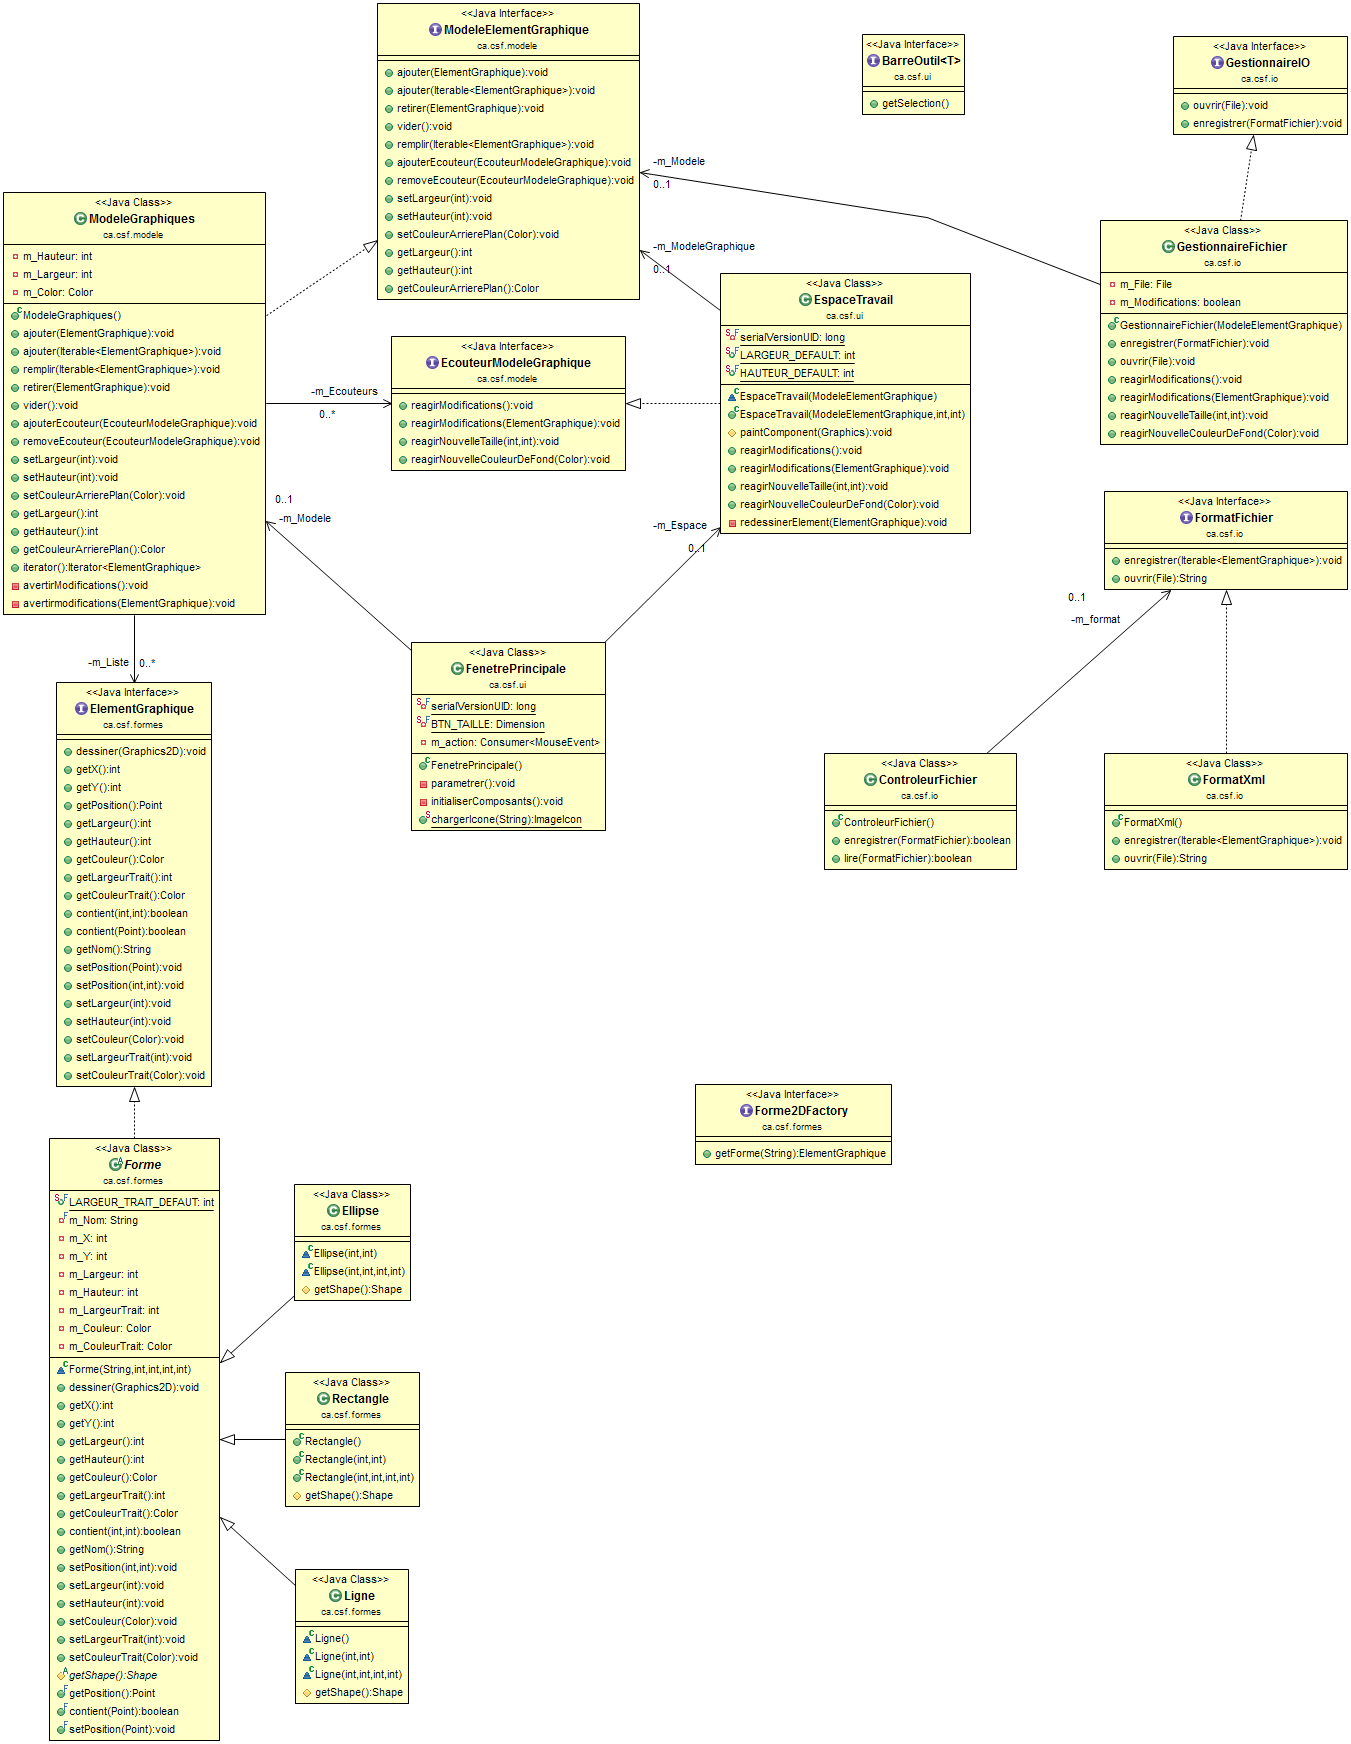
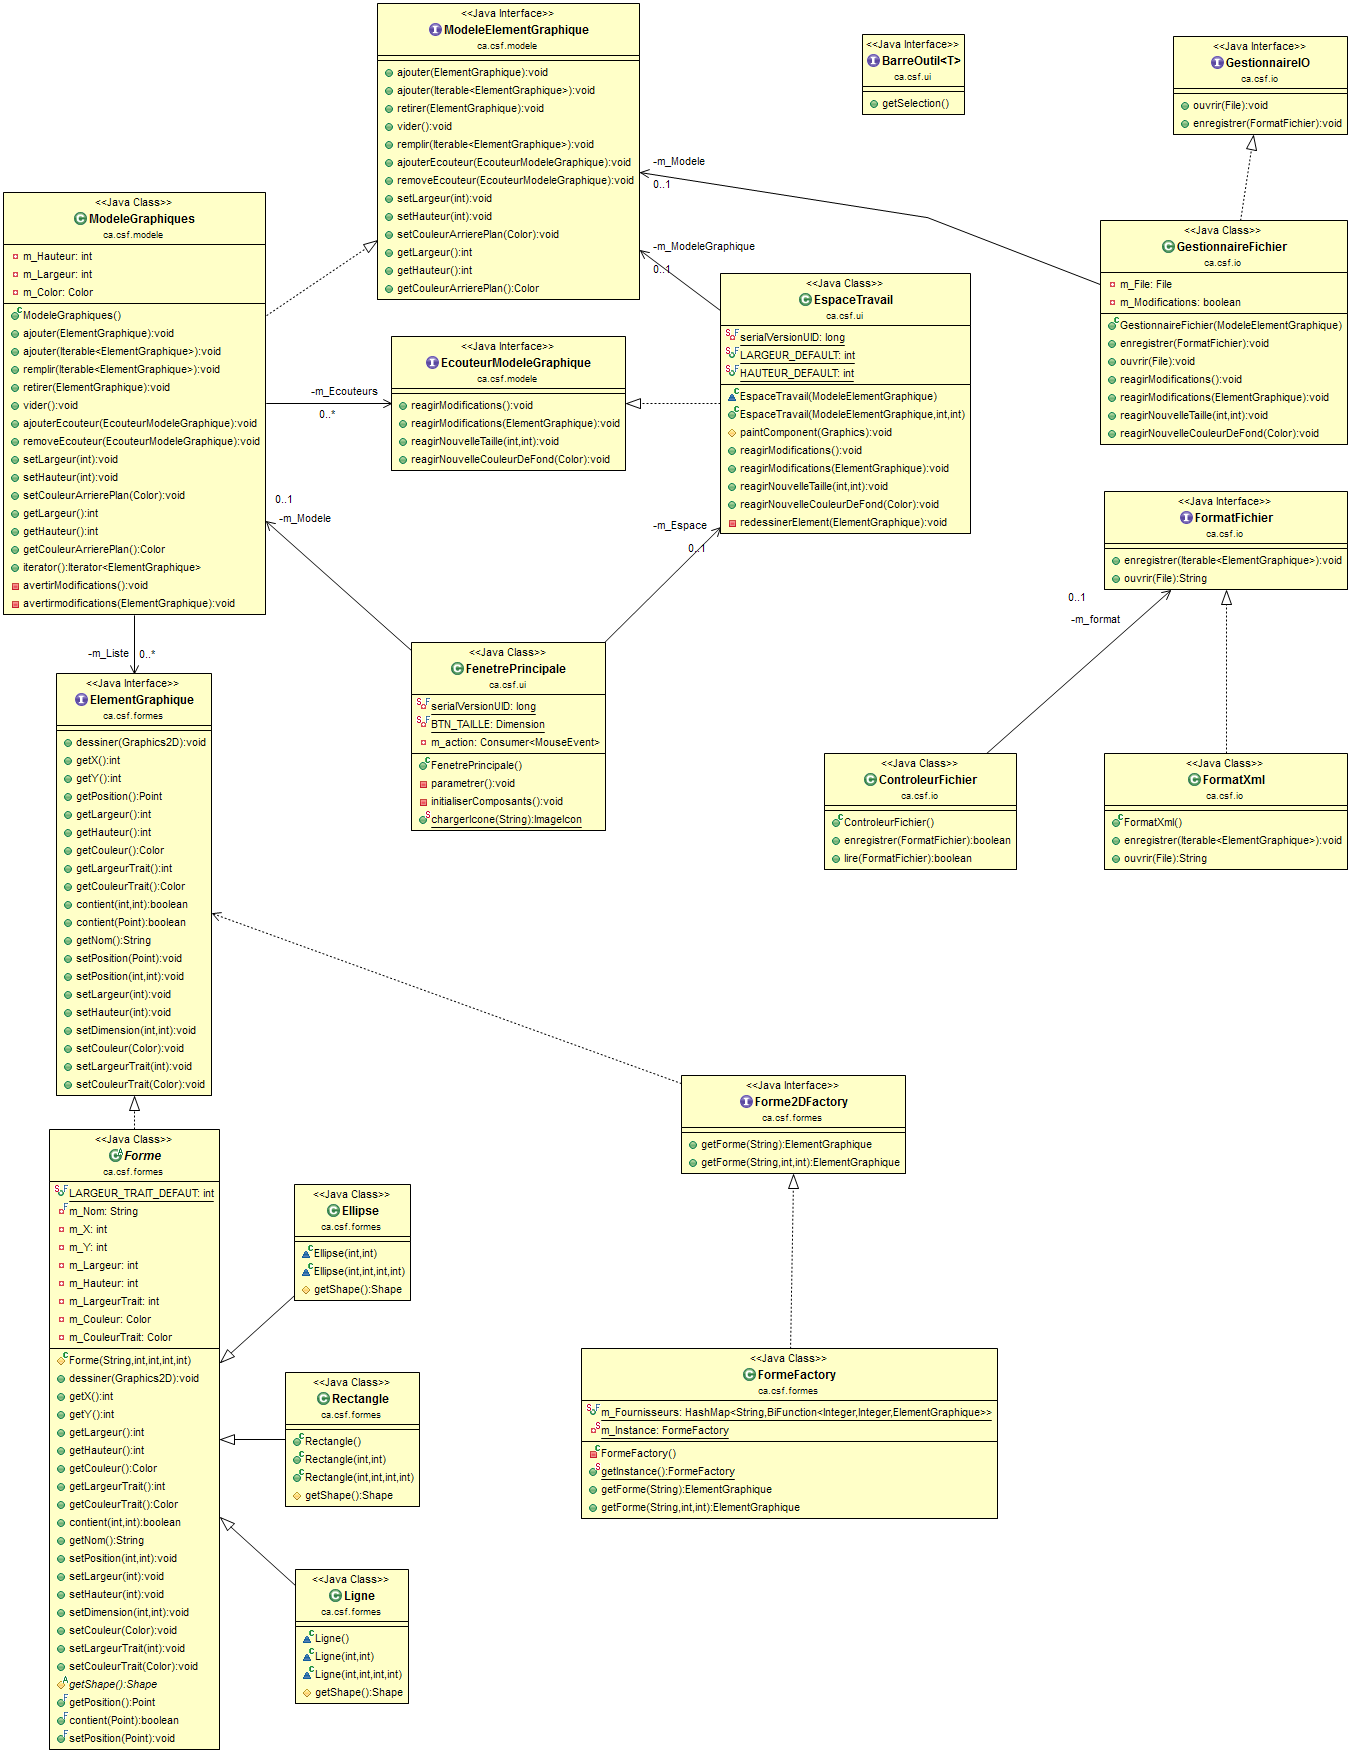
setDimension

diff --git a/TP01_Poo/src/ca/csf/ui/FenetrePrincipale.java b/TP01_Poo/src/ca/csf/ui/FenetrePrincipale.java
@@ -21,7 +21,8 @@ import javax.swing.JMenuBar;
 import javax.swing.JMenuItem;
 import javax.swing.JPanel;
 
-import ca.csf.formes.Rectangle;
+import ca.csf.formes.ElementGraphique;
+import ca.csf.formes.FormeFactory;
 import ca.csf.modele.ModeleGraphiques;
 
 /**
@@ -74,9 +75,9 @@ public class FenetrePrincipale extends JFrame {
 		JMenuItem item_Quitter = new JMenuItem("Quitter");
 		JMenuItem item_Couleur = new JMenuItem("Couleur");
 		JMenuItem item_CouleurTrait = new JMenuItem("Couleur de Trait");
-		JMenuItem item_EpaisTrait = new JMenuItem("Epaisseur Trait");
+		JMenuItem item_LargeurTrait = new JMenuItem("Epaisseur Trait");
 		JButton btn_Selection = new JButton();
-		JButton btn_Elipse = new JButton();
+		JButton btn_Ellipse = new JButton();
 		JButton btn_Rectangle = new JButton();
 		JButton btn_Ligne = new JButton();
 		//
@@ -111,7 +112,7 @@ public class FenetrePrincipale extends JFrame {
 		// menu_Selection
 		menu_Selection.add(item_Couleur);
 		menu_Selection.add(item_CouleurTrait);
-		menu_Selection.add(item_EpaisTrait);
+		menu_Selection.add(item_LargeurTrait);
 		//
 		// menu_Formes
 		menu_Formes.add("JMenuItems...");
@@ -139,7 +140,7 @@ public class FenetrePrincipale extends JFrame {
 		// panel_Outils
 		panel_Outils.setLayout(new BoxLayout(panel_Outils, BoxLayout.Y_AXIS));
 		panel_Outils.add(btn_Selection);
-		panel_Outils.add(btn_Elipse);
+		panel_Outils.add(btn_Ellipse);
 		panel_Outils.add(btn_Rectangle);
 		panel_Outils.add(btn_Ligne);
 		super.add(panel_Outils, BorderLayout.WEST);
@@ -150,18 +151,26 @@ public class FenetrePrincipale extends JFrame {
 		btn_Selection.addActionListener(e -> {
 		});
 		//
-		// btn_Elipse
-		btn_Elipse.setIcon(FenetrePrincipale.chargerIcone("24_Ellipse.png"));
+		// btn_Ellipse
+		btn_Ellipse.setIcon(FenetrePrincipale.chargerIcone("24_Ellipse.png"));
 		btn_Selection.setSize(FenetrePrincipale.BTN_TAILLE);
-		btn_Elipse.addActionListener(e -> {
+		btn_Ellipse.addActionListener(e -> {
+			this.m_action = me -> {
+				ElementGraphique ellipse = FormeFactory.getInstance().getForme("Ellipse");
+				ellipse.setPosition(me.getX() - 25, me.getY() - 25);
+				ellipse.setDimension(50, 50);
+				this.m_Modele.ajouter(ellipse);
+			};
 		});
 		//
-		// btn_Rect
+		// btn_Rectangle
 		btn_Rectangle.setIcon(FenetrePrincipale.chargerIcone("24_Rectangle.png"));
 		btn_Selection.setSize(FenetrePrincipale.BTN_TAILLE);
 		btn_Rectangle.addActionListener(e -> {
 			this.m_action = me -> {
-				Rectangle rectangle = new Rectangle(me.getX(), me.getY(), 50, 50);
+				ElementGraphique rectangle = FormeFactory.getInstance().getForme("Rectangle");
+				rectangle.setPosition(me.getX() - 25, me.getY() - 25);
+				rectangle.setDimension(50, 50);
 				this.m_Modele.ajouter(rectangle);
 			};
 		});
@@ -170,6 +179,12 @@ public class FenetrePrincipale extends JFrame {
 		btn_Ligne.setIcon(FenetrePrincipale.chargerIcone("24_Ligne.png"));
 		btn_Selection.setPreferredSize(FenetrePrincipale.BTN_TAILLE);
 		btn_Ligne.addActionListener(e -> {
+			this.m_action = me -> {
+				ElementGraphique ligne = FormeFactory.getInstance().getForme("Ligne");
+				ligne.setPosition(me.getX() - 25, me.getY() -25);
+				ligne.setDimension(50, 50);
+				this.m_Modele.ajouter(ligne);
+			};
 		});
 		//
 		// windowClosing

diff --git a/TP01_Poo/src/ca/csf/modele/Selection.java b/TP01_Poo/src/ca/csf/modele/Selection.java
@@ -1,106 +1,44 @@
 package ca.csf.modele;
-import java.awt.Color;
-import java.awt.Graphics2D;
-import java.awt.Point;
+
+import java.awt.Shape;
 
 import ca.csf.formes.*;
 
-public class Selection implements ElementGraphique {
+public class Selection extends Forme {
+
+	Selection(ElementGraphique p_Element, int p_SourisX, int p_SourisY) {
+		super(p_Element.getNom(), p_Element.getX(), p_Element.getY(), p_SourisX, p_SourisY);
+	}
+
+	/**
+	 * Décalage en x par rapport 
+	 */
+	private Integer p_differenceX;
+	private Integer p_differenceY;
 	
-	private Integer p_posX;
-	private Integer p_posY;
 	private ElementGraphique formeContour;
-	
-	void setForme (ElementGraphique p_Element) {
+
+	void setForme(ElementGraphique p_Element) {
 		int ajoutContour = 2 * p_Element.getLargeurTrait();
 		this.formeContour.setPosition(p_Element.getX() + ajoutContour, p_Element.getY() + ajoutContour);
 	}
-
-	@Override
-	public void dessiner(Graphics2D p_Graphic) {
-	}
-
-	@Override
-	public int getX() {
-		return 0;
-	}
-
-	@Override
-	public int getY() {
-		return 0;
-	}
-
-	@Override
-	public Point getPosition() {
-		return null;
-	}
-
-	@Override
-	public int getLargeur() {
-		return 0;
-	}
-
-	@Override
-	public int getHauteur() {
-		return 0;
-	}
-
-	@Override
-	public Color getCouleur() {
-		return null;
-	}
-
-	@Override
-	public int getLargeurTrait() {
-		return 0;
-	}
-
-	@Override
-	public Color getCouleurTrait() {
-		return null;
-	}
-
-	@Override
-	public boolean contient(int p_X, int p_Y) {
-		return false;
-	}
-
-	@Override
-	public boolean contient(Point p_Point) {
-		return false;
-	}
-
-	@Override
-	public String getNom() {
-		return null;
-	}
-
-	@Override
-	public void setPosition(Point p_Position) {
-	}
-
+	
+	/**
+	 * {@inheritDoc}
+	 */
 	@Override
 	public void setPosition(int p_X, int p_Y) {
-	}
-
-	@Override
-	public void setLargeur(int p_Largeur) {
-	}
-
-	@Override
-	public void setHauteur(int p_Hauteur) {
-	}
-
-	@Override
-	public void setCouleur(Color p_Couleur) {
-	}
-
-	@Override
-	public void setLargeurTrait(int p_PX) {
-	}
-
-	@Override
-	public void setCouleurTrait(Color p_Couleur) {
+		int x = p_X - p_differenceX;
+		int y = p_Y - p_differenceY;
+		this.formeContour.setPosition(x, y);
 	}
 	
+	/**
+	 * {@inheritDoc}
+	 */
+	@Override
+	protected Shape getShape() {
+		return new java.awt.Rectangle(this.getX(), this.getY(), this.getHauteur(), this.getLargeur());
+	}
+
 }

diff --git a/TP01_Poo/src/ca/csf/formes/Forme.java b/TP01_Poo/src/ca/csf/formes/Forme.java
@@ -65,12 +65,10 @@ public abstract class Forme implements ElementGraphique {
 	 * @param p_Largeur
 	 * @param p_Hauteur
 	 */
-	Forme(String p_Nom, int p_X, int p_Y, int p_Largeur, int p_Hauteur) {
+	protected Forme(String p_Nom, int p_X, int p_Y, int p_Largeur, int p_Hauteur) {
 		this.m_Nom = p_Nom;
-		this.m_X = p_X;
-		this.m_Y = p_Y;
-		this.m_Largeur = p_Largeur;
-		this.m_Hauteur = p_Hauteur;
+		this.setPosition(p_X, p_Y);
+		this.setDimension(p_Largeur, p_Hauteur);
 	}
 	
 	/**
@@ -175,7 +173,7 @@ public abstract class Forme implements ElementGraphique {
 	 */
 	@Override
 	public void setLargeur(int p_Largeur) {
-		this.m_Largeur = p_Largeur;
+		this.setDimension(p_Largeur, this.m_Hauteur);
 	}
 
 	/**
@@ -183,6 +181,15 @@ public abstract class Forme implements ElementGraphique {
 	 */
 	@Override
 	public void setHauteur(int p_Hauteur) {
+		this.setDimension(this.m_Largeur, p_Hauteur);
+	}
+	
+	/**
+	 * {@inheritDoc}
+	 */
+	@Override
+	public void setDimension(int p_Largeur, int p_Hauteur) {
+		this.m_Largeur = p_Largeur;
 		this.m_Hauteur = p_Hauteur;
 	}
 

diff --git a/TP01_Poo/src/ca/csf/formes/FormeFactory.java b/TP01_Poo/src/ca/csf/formes/FormeFactory.java
@@ -16,22 +16,30 @@ public class FormeFactory implements Forme2DFactory {
 		m_Fournisseurs.put("Ligne", (x, y) -> new Ligne(x, y));
 		m_Fournisseurs.put("Rectangle", (x, y) -> new Rectangle(x, y));
 		m_Fournisseurs.put("Ellipse", (x, y) -> new Ellipse(x, y));
-	}      
+	}
+	
+	private static FormeFactory m_Instance = new FormeFactory();
+	
+	private FormeFactory() {}
+	
+	public static FormeFactory getInstance() {
+		return m_Instance;
+	}
 	
 	/**
 	 * {@inheritDoc}
 	 */
 	@Override
-	public ElementGraphique getForme(String p_Nom) {	
+	public ElementGraphique getForme(String p_Nom) {
 		return this.getForme(p_Nom, 0, 0);
 	}
 	
 	/**
 	 * {@inheritDoc}
 	 */
-	//@Override
-	public ElementGraphique getForme(String p_Nom, int x, int y) {
+	@Override
+	public ElementGraphique getForme(String p_Nom, int p_X, int p_Y) {
 		return m_Fournisseurs.get(p_Nom) == null ?
-				null : m_Fournisseurs.get(p_Nom).apply(x, y);
+				null : m_Fournisseurs.get(p_Nom).apply(p_X, p_Y);
 	}
 }

diff --git a/TP01_Poo/src/ca/csf/formes/ElementGraphique.java b/TP01_Poo/src/ca/csf/formes/ElementGraphique.java
@@ -121,17 +121,25 @@ public interface ElementGraphique {
 	/**
 	 * Pour modifier la largeur.
 	 * 
-	 * @param p_Largeur la nouvelle largeur en pixel.
+	 * @param p_Largeur la nouvelle largeur.
 	 */
 	void setLargeur(int p_Largeur);
 
 	/**
 	 * Pour modifier la hauteur.
 	 * 
-	 * @param p_Largeur la nouvelle hauteur en pixel.
+	 * @param p_Largeur la nouvelle hauteur.
 	 */
 	void setHauteur(int p_Hauteur);
 
+	/**
+	 * Pour modifier les dimensions de la formes.
+	 * 
+	 * @param p_Largeur largeur.
+	 * @param p_Hauteur hauteur
+	 */
+	void setDimension(int p_Largeur, int p_Hauteur);
+	
 	/**
 	 * Pour modifier la couleur.
 	 * 

diff --git a/TP01_Poo/src/ca/csf/formes/Forme2DFactory.java b/TP01_Poo/src/ca/csf/formes/Forme2DFactory.java
@@ -8,10 +8,19 @@ package ca.csf.formes;
 public interface Forme2DFactory {
 	
 	/**
-	 * Retourne une la forme demandée.
+	 * Retourne une instance de la forme demandée.
 	 * 
 	 * @param p_Nom le nom de la forme désirée.
 	 * @return La forme demandée ou null
 	 */
 	ElementGraphique getForme(String p_Nom);
+
+	/**
+	 *  
+	 * @param p_Nom
+	 * @param p_X
+	 * @param p_Y
+	 * @return
+	 */
+	ElementGraphique getForme(String p_Nom, int p_X, int p_Y);
 }
